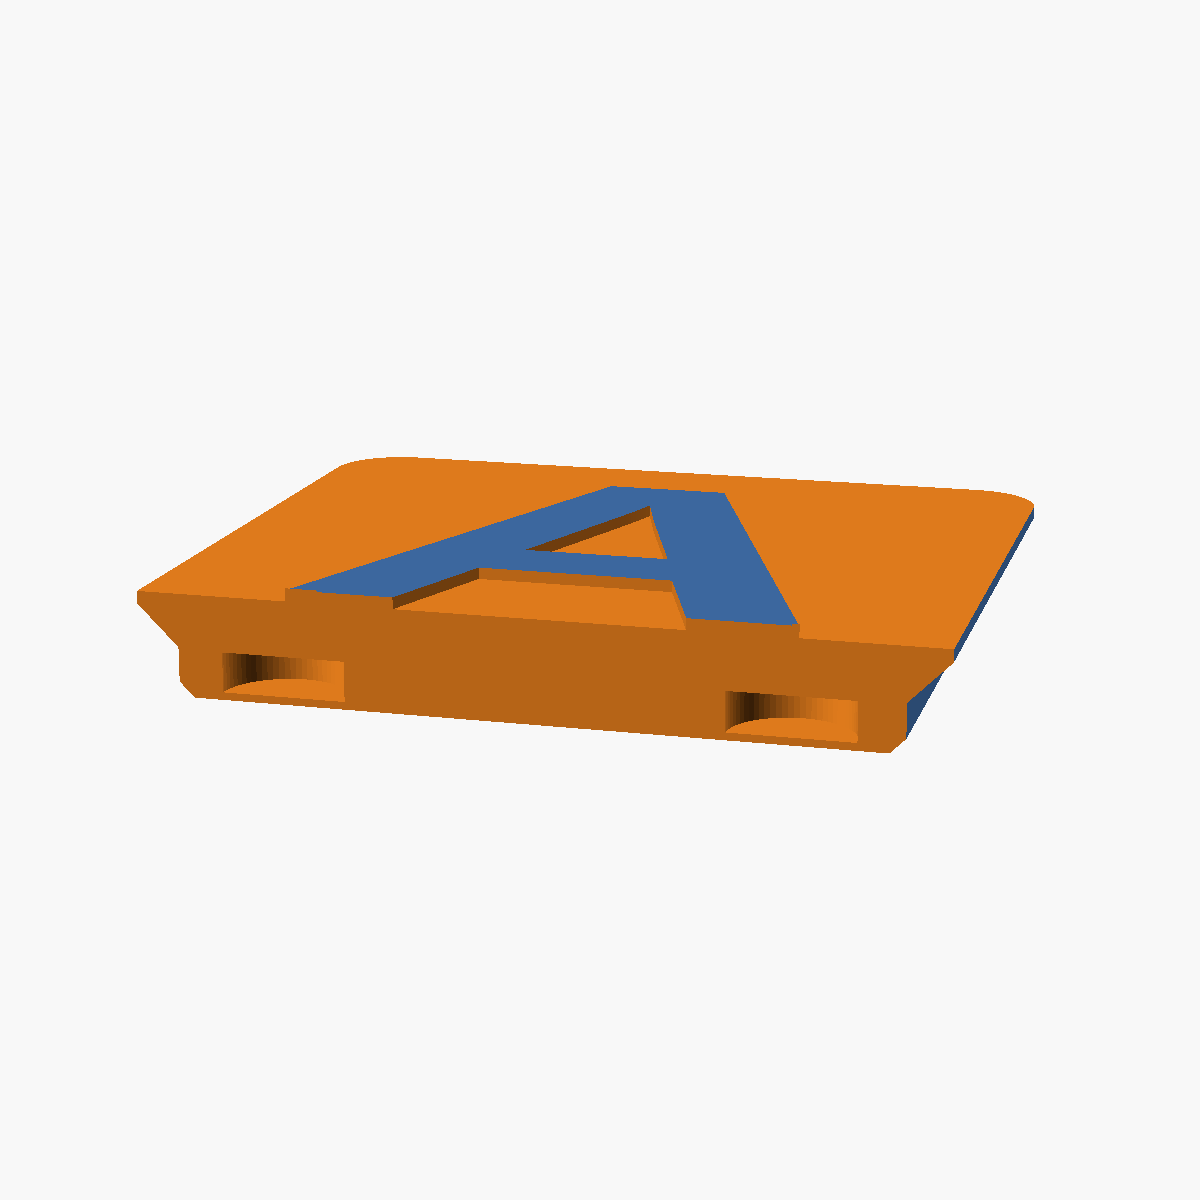
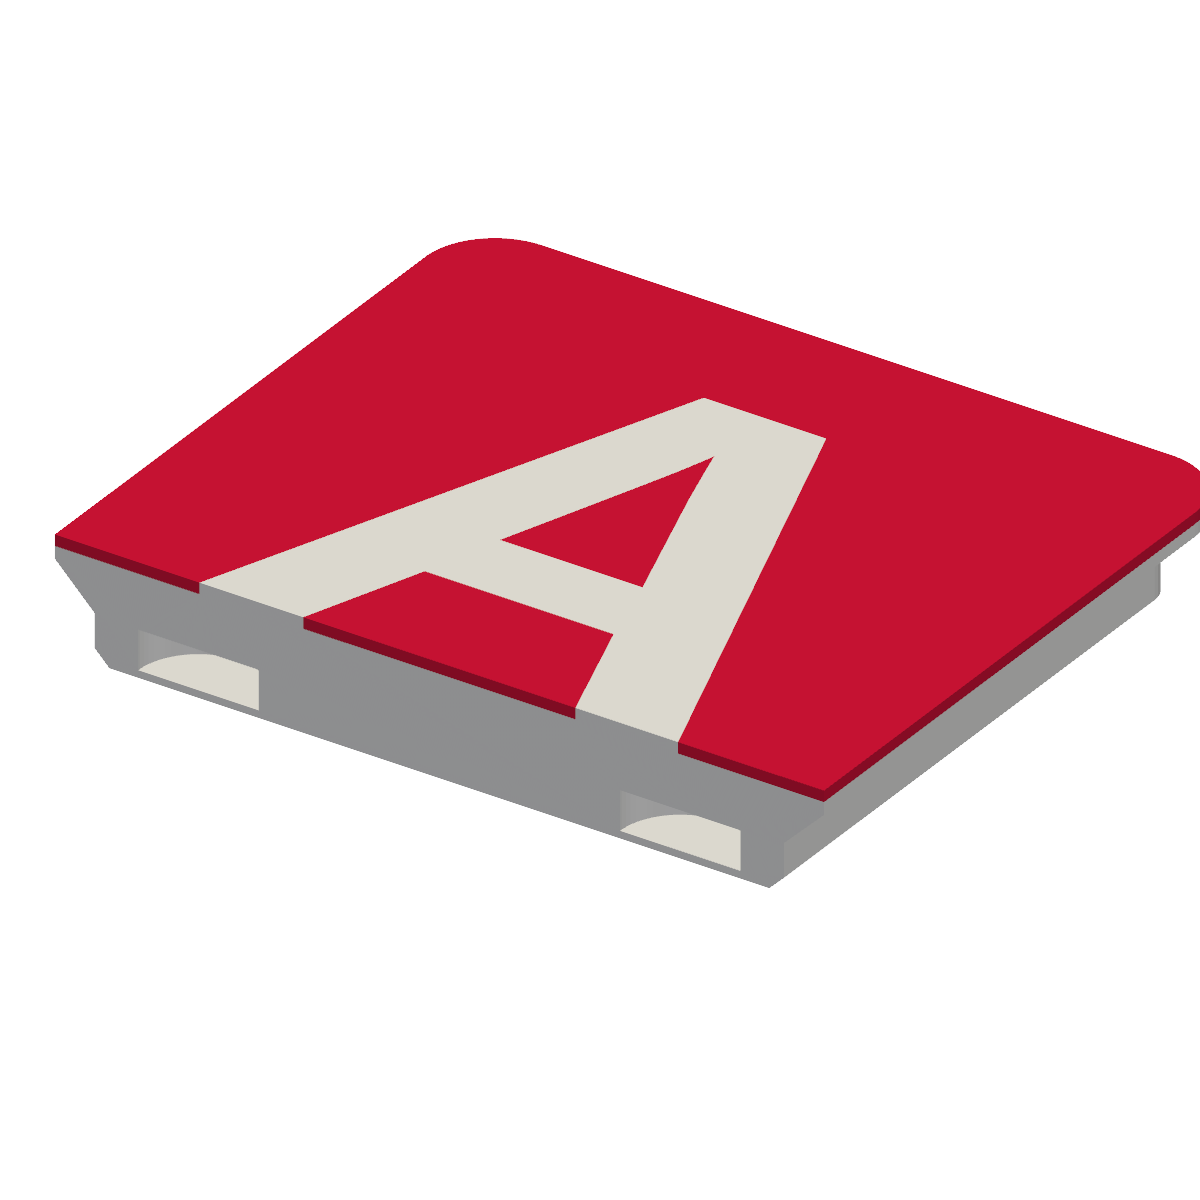
Add render script and update screenshot (#4)
* Add render script and update screenshot

* better cutaway render

* simplify justfile

* try fix ci

* fix ci moar

diff --git a/docs/render.py b/docs/render.py
@@ -1,0 +1,49 @@
+# /// script
+# requires-python = ">=3.10"
+# dependencies = ["pyvista"]
+# ///
+"""Render README images from the OpenSCAD-exported STLs.
+
+PyVista loads both bodies as separate meshes, optionally clips them with a
+plane (true cutaway — no geometry mutation in OpenSCAD), and writes a PNG
+with transparent background.
+"""
+
+import sys
+
+import pyvista as pv
+
+BODY_COLOR = "whitesmoke"
+OUTSIDE_COLOR = "crimson"
+WINDOW = (1200, 1200)
+
+
+def render(body_stl: str, outside_stl: str, out_png: str, mode: str) -> None:
+    body = pv.read(body_stl)
+    outside = pv.read(outside_stl)
+
+    if mode == "cutaway":
+        # Keep y >= -13 so the cut face passes through the front-row magnet
+        # pockets. `clip_closed_surface` caps the cut with a new face so the
+        # solid stays solid (vs `clip` which would leave an open hole).
+        kwargs = dict(normal=(0.0, 1.0, 0.0), origin=(0.0, -13.0, 0.0))
+        body = body.clip_closed_surface(**kwargs)
+        outside = outside.clip_closed_surface(**kwargs)
+    elif mode != "preview":
+        sys.exit(f"unknown mode: {mode!r}")
+
+    p = pv.Plotter(off_screen=True, window_size=WINDOW)
+    p.add_mesh(body, color=BODY_COLOR, ambient=0.25, diffuse=0.75, specular=0.1)
+    p.add_mesh(outside, color=OUTSIDE_COLOR, ambient=0.25, diffuse=0.75, specular=0.1)
+
+    # 3/4 view from the front-left-above so the cutaway face is visible.
+    p.camera_position = [(50.0, -75.0, 55.0), (0.0, 0.0, 3.0), (0.0, 0.0, 1.0)]
+    p.enable_parallel_projection()
+
+    p.screenshot(out_png, transparent_background=True)
+
+
+if __name__ == "__main__":
+    if len(sys.argv) != 5:
+        sys.exit("usage: render.py <body.stl> <outside.stl> <out.png> <preview|cutaway>")
+    render(*sys.argv[1:])